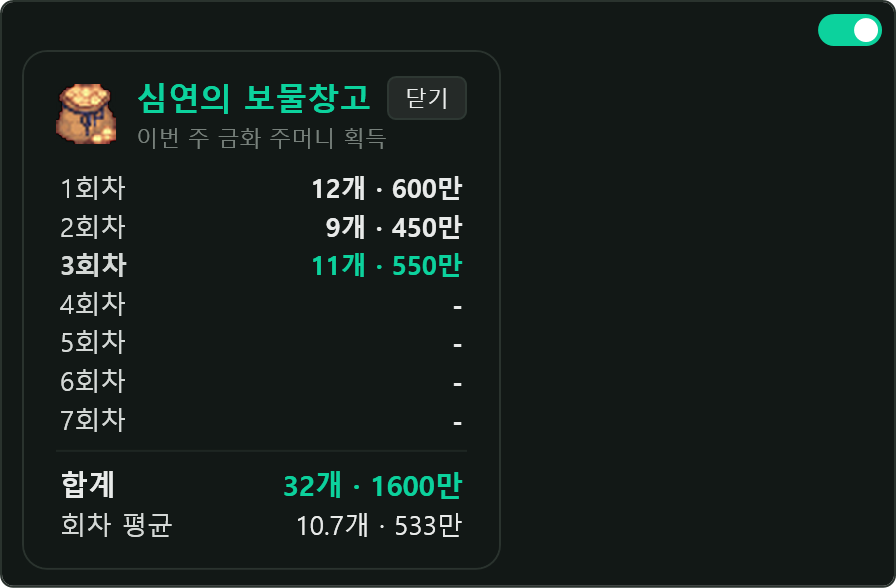
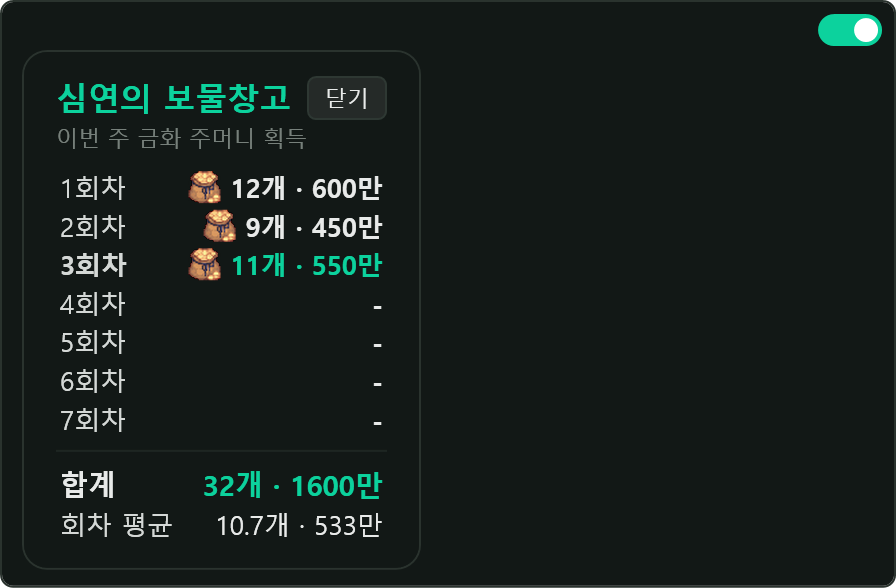
feat: 아이콘 배치 변경 — 제목 대신 각 항목 앞에 표시
- 보물창고: 제목 앞 큰 금화 주머니 제거, 각 회차 개수 앞에 작은 금화 주머니 (기록 없는 회차는 숨김)
- 주간 득템 통계: 제목 아이콘 제거, 각 아이템 이름 앞에 아이템 아이콘 (달력과 같은 매핑, 없는 아이템은 빈 자리)

diff --git a/Views/Overlays/TreasurySummaryWindow.cs b/Views/Overlays/TreasurySummaryWindow.cs
@@ -28,6 +28,7 @@ namespace TWChatOverlay.Views
 
         private readonly TextBlock[] _runValues = new TextBlock[MaxRuns];
         private readonly TextBlock[] _runLabels = new TextBlock[MaxRuns];
+        private readonly Image[] _runIcons = new Image[MaxRuns];
         private readonly TextBlock _totalText;
         private readonly TextBlock _averageText;
         private readonly DispatcherTimer _closeTimer;
@@ -65,16 +66,6 @@ namespace TWChatOverlay.Views
             };
             subtitle.SetResourceReference(TextBlock.ForegroundProperty, "OverlayHintTextBrush");
 
-            var icon = new Image
-            {
-                Width = 30,
-                Height = 30,
-                Margin = new Thickness(0, 0, 10, 0),
-                VerticalAlignment = VerticalAlignment.Center,
-            };
-            RenderOptions.SetBitmapScalingMode(icon, BitmapScalingMode.NearestNeighbor);
-            try { icon.Source = new BitmapImage(new Uri(SeedPouchIconUri, UriKind.Absolute)); } catch { }
-
             var closeButton = new Button
             {
                 Content = "닫기",
@@ -89,7 +80,6 @@ namespace TWChatOverlay.Views
             closeButton.Click += (_, _) => { try { Close(); } catch { } };
 
             var header = new DockPanel { Margin = new Thickness(0, 0, 0, 8) };
-            header.Children.Add(icon);
             DockPanel.SetDock(closeButton, Dock.Right);
             header.Children.Add(closeButton);
             var titleStack = new StackPanel();
@@ -103,10 +93,31 @@ namespace TWChatOverlay.Views
             for (int i = 0; i < MaxRuns; i++)
             {
                 var row = new DockPanel { Margin = new Thickness(2, 1, 2, 1) };
-                _runValues[i] = new TextBlock { FontSize = 13, FontWeight = FontWeights.SemiBold };
+                _runValues[i] = new TextBlock
+                {
+                    FontSize = 13,
+                    FontWeight = FontWeights.SemiBold,
+                    VerticalAlignment = VerticalAlignment.Center,
+                };
                 _runValues[i].SetResourceReference(TextBlock.ForegroundProperty, "TextBrush");
-                DockPanel.SetDock(_runValues[i], Dock.Right);
-                row.Children.Add(_runValues[i]);
+
+                // 개수 앞 금화 주머니 아이콘 (기록 없는 회차에서는 숨김)
+                _runIcons[i] = new Image
+                {
+                    Width = 16,
+                    Height = 16,
+                    Margin = new Thickness(0, 0, 5, 0),
+                    VerticalAlignment = VerticalAlignment.Center,
+                    Visibility = Visibility.Collapsed,
+                };
+                RenderOptions.SetBitmapScalingMode(_runIcons[i], BitmapScalingMode.NearestNeighbor);
+                try { _runIcons[i].Source = new BitmapImage(new Uri(SeedPouchIconUri, UriKind.Absolute)); } catch { }
+
+                var valuePanel = new StackPanel { Orientation = Orientation.Horizontal };
+                valuePanel.Children.Add(_runIcons[i]);
+                valuePanel.Children.Add(_runValues[i]);
+                DockPanel.SetDock(valuePanel, Dock.Right);
+                row.Children.Add(valuePanel);
 
                 _runLabels[i] = new TextBlock { Text = $"{i + 1}회차", FontSize = 13 };
                 _runLabels[i].SetResourceReference(TextBlock.ForegroundProperty, "OverlayInfoTextBrush");
@@ -214,6 +225,7 @@ namespace TWChatOverlay.Views
             {
                 bool started = i < runCounts.Count;
                 _runValues[i].Text = started ? $"{runCounts[i]}개 · {FormatGoldValue(runCounts[i])}" : "-";
+                _runIcons[i].Visibility = started ? Visibility.Visible : Visibility.Collapsed;
                 bool isCurrent = i == currentRun - 1;
                 _runLabels[i].FontWeight = isCurrent ? FontWeights.Bold : FontWeights.Normal;
                 _runValues[i].SetResourceReference(TextBlock.ForegroundProperty,

diff --git a/Views/Overlays/WeeklyItemSummaryWindow.cs b/Views/Overlays/WeeklyItemSummaryWindow.cs
@@ -104,24 +104,7 @@ namespace TWChatOverlay.Views
             var titleStack = new StackPanel();
             titleStack.Children.Add(title);
             titleStack.Children.Add(subtitleRow);
-            var titleRow = new StackPanel { Orientation = Orientation.Horizontal };
-            try
-            {
-                var titleIcon = new Image
-                {
-                    Width = 26,
-                    Height = 26,
-                    Margin = new Thickness(0, 0, 8, 0),
-                    VerticalAlignment = VerticalAlignment.Center,
-                    Source = new System.Windows.Media.Imaging.BitmapImage(
-                        new Uri("pack://application:,,,/Data/images/Item/설계자의_반지.png")),
-                };
-                RenderOptions.SetBitmapScalingMode(titleIcon, BitmapScalingMode.NearestNeighbor);
-                titleRow.Children.Add(titleIcon);
-            }
-            catch { }
-            titleRow.Children.Add(titleStack);
-            header.Children.Add(titleRow);
+            header.Children.Add(titleStack);
 
             _listPanel = new StackPanel();
             BuildRows(_listPanel, weekStart, weekEnd);
@@ -348,6 +331,32 @@ namespace TWChatOverlay.Views
                 countText.SetResourceReference(TextBlock.ForegroundProperty, "TextBrush");
                 DockPanel.SetDock(countText, Dock.Right);
                 row.Children.Add(countText);
+
+                // 아이템 아이콘 (달력과 같은 매핑; 없는 아이템은 빈 자리로 이름 정렬 유지)
+                var iconHost = new Border
+                {
+                    Width = 18,
+                    Height = 18,
+                    Margin = new Thickness(0, 0, 6, 0),
+                    VerticalAlignment = VerticalAlignment.Center,
+                };
+                try
+                {
+                    string? iconUri = ItemCalendarEntryViewModel.GetIconUri(name);
+                    if (iconUri != null)
+                    {
+                        var iconImage = new Image
+                        {
+                            Source = new System.Windows.Media.Imaging.BitmapImage(new Uri(iconUri)),
+                            Stretch = Stretch.Uniform,
+                        };
+                        RenderOptions.SetBitmapScalingMode(iconImage, BitmapScalingMode.NearestNeighbor);
+                        iconHost.Child = iconImage;
+                    }
+                }
+                catch { }
+                DockPanel.SetDock(iconHost, Dock.Left);
+                row.Children.Add(iconHost);
 
                 var nameText = new TextBlock
                 {
